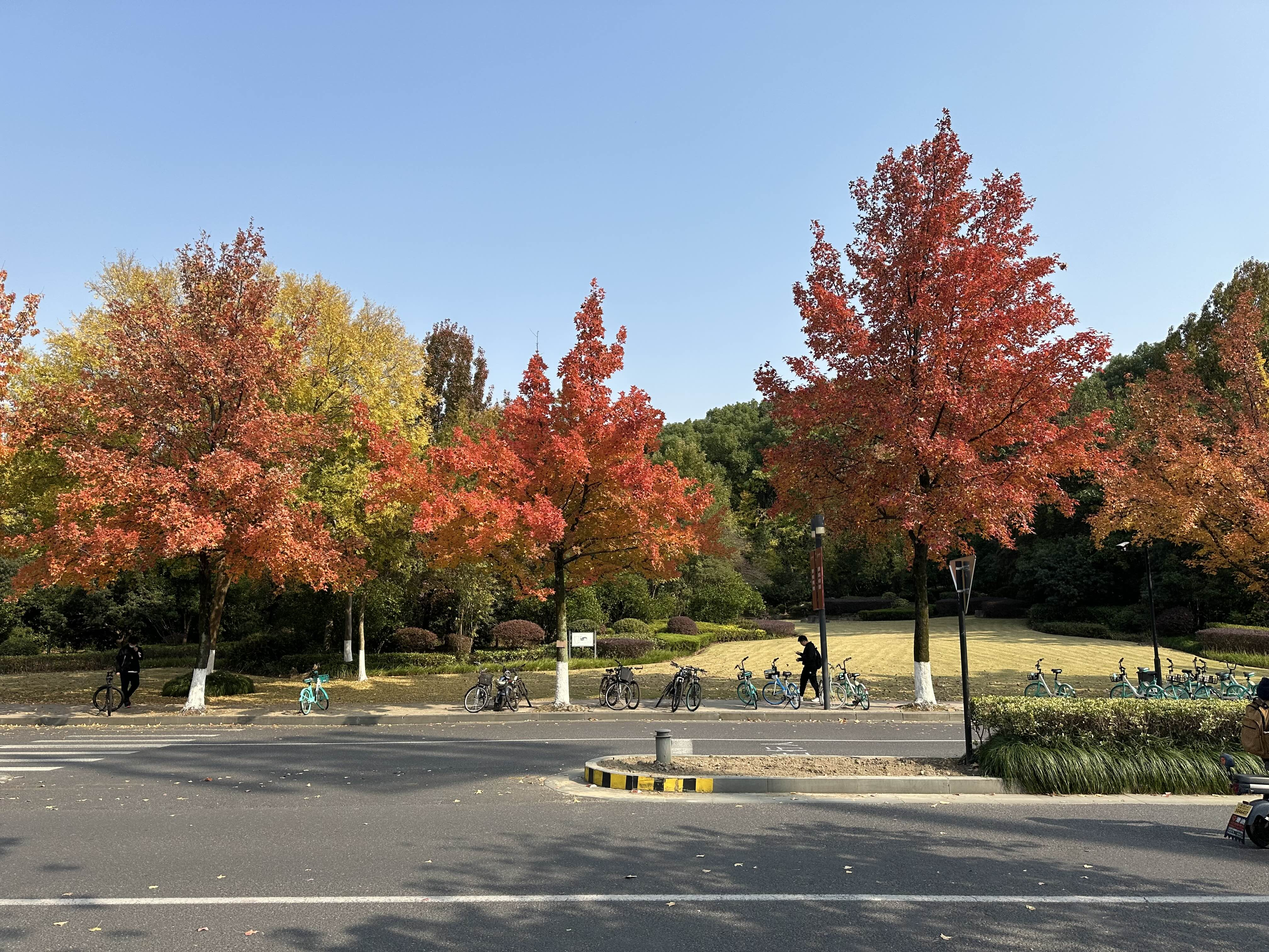
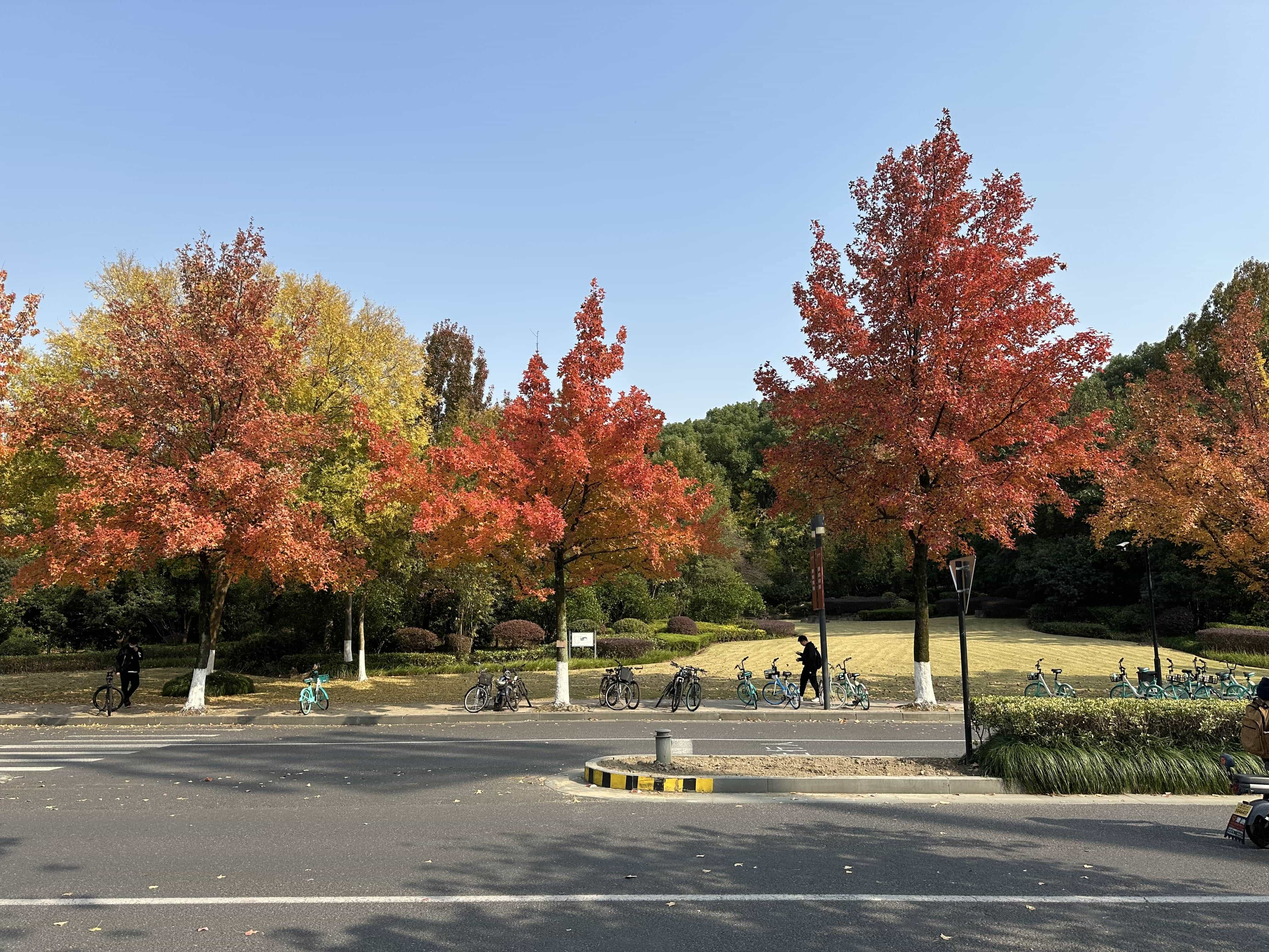
Compress images

diff --git a/index.html b/index.html
@@ -150,7 +150,7 @@
 			</main>
 			<footer>
 <hr><a class="soc" href="https://github.com/zhuyie" title="GitHub"><i data-feather="github"></i></a>|⚡
-	2023  © zhuyie |  <a href="https://github.com/athul/archie">Archie Theme</a> | Built with <a href="https://gohugo.io">Hugo</a>
+	2024  © zhuyie |  <a href="https://github.com/athul/archie">Archie Theme</a> | Built with <a href="https://gohugo.io">Hugo</a>
 </footer>
 
 

diff --git a/posts/index.html b/posts/index.html
@@ -59,7 +59,7 @@
 		</li></ul>
 <footer>
 <hr><a class="soc" href="https://github.com/zhuyie" title="GitHub"><i data-feather="github"></i></a>|⚡
-	2023  © zhuyie |  <a href="https://github.com/athul/archie">Archie Theme</a> | Built with <a href="https://gohugo.io">Hugo</a>
+	2024  © zhuyie |  <a href="https://github.com/athul/archie">Archie Theme</a> | Built with <a href="https://gohugo.io">Hugo</a>
 </footer>
 
 

diff --git a/posts/binary-to-text-encoding/index.html b/posts/binary-to-text-encoding/index.html
@@ -148,7 +148,7 @@
 </main>
 <footer>
 <hr><a class="soc" href="https://github.com/zhuyie" title="GitHub"><i data-feather="github"></i></a>|⚡
-	2023  © zhuyie |  <a href="https://github.com/athul/archie">Archie Theme</a> | Built with <a href="https://gohugo.io">Hugo</a>
+	2024  © zhuyie |  <a href="https://github.com/athul/archie">Archie Theme</a> | Built with <a href="https://gohugo.io">Hugo</a>
 </footer>
 
 

diff --git a/posts/ble-paring-on-dualboot-macos-windows/index.html b/posts/ble-paring-on-dualboot-macos-windows/index.html
@@ -219,7 +219,7 @@
 </main>
 <footer>
 <hr><a class="soc" href="https://github.com/zhuyie" title="GitHub"><i data-feather="github"></i></a>|⚡
-	2023  © zhuyie |  <a href="https://github.com/athul/archie">Archie Theme</a> | Built with <a href="https://gohugo.io">Hugo</a>
+	2024  © zhuyie |  <a href="https://github.com/athul/archie">Archie Theme</a> | Built with <a href="https://gohugo.io">Hugo</a>
 </footer>
 
 

diff --git a/posts/bsdiff-annotated/index.html b/posts/bsdiff-annotated/index.html
@@ -344,7 +344,7 @@
 </main>
 <footer>
 <hr><a class="soc" href="https://github.com/zhuyie" title="GitHub"><i data-feather="github"></i></a>|⚡
-	2023  © zhuyie |  <a href="https://github.com/athul/archie">Archie Theme</a> | Built with <a href="https://gohugo.io">Hugo</a>
+	2024  © zhuyie |  <a href="https://github.com/athul/archie">Archie Theme</a> | Built with <a href="https://gohugo.io">Hugo</a>
 </footer>
 
 

diff --git a/posts/cpp-generate-canonical-perf/index.html b/posts/cpp-generate-canonical-perf/index.html
@@ -188,7 +188,7 @@
 </main>
 <footer>
 <hr><a class="soc" href="https://github.com/zhuyie" title="GitHub"><i data-feather="github"></i></a>|⚡
-	2023  © zhuyie |  <a href="https://github.com/athul/archie">Archie Theme</a> | Built with <a href="https://gohugo.io">Hugo</a>
+	2024  © zhuyie |  <a href="https://github.com/athul/archie">Archie Theme</a> | Built with <a href="https://gohugo.io">Hugo</a>
 </footer>
 
 

diff --git a/posts/cpu-branch-prediction-demo/index.html b/posts/cpu-branch-prediction-demo/index.html
@@ -156,7 +156,7 @@
 </main>
 <footer>
 <hr><a class="soc" href="https://github.com/zhuyie" title="GitHub"><i data-feather="github"></i></a>|⚡
-	2023  © zhuyie |  <a href="https://github.com/athul/archie">Archie Theme</a> | Built with <a href="https://gohugo.io">Hugo</a>
+	2024  © zhuyie |  <a href="https://github.com/athul/archie">Archie Theme</a> | Built with <a href="https://gohugo.io">Hugo</a>
 </footer>
 
 

diff --git a/posts/cpu-cache-false-sharing/index.html b/posts/cpu-cache-false-sharing/index.html
@@ -274,7 +274,7 @@
 </main>
 <footer>
 <hr><a class="soc" href="https://github.com/zhuyie" title="GitHub"><i data-feather="github"></i></a>|⚡
-	2023  © zhuyie |  <a href="https://github.com/athul/archie">Archie Theme</a> | Built with <a href="https://gohugo.io">Hugo</a>
+	2024  © zhuyie |  <a href="https://github.com/athul/archie">Archie Theme</a> | Built with <a href="https://gohugo.io">Hugo</a>
 </footer>
 
 

diff --git a/posts/goodbye-2023/index.html b/posts/goodbye-2023/index.html
@@ -70,7 +70,7 @@
 </main>
 <footer>
 <hr><a class="soc" href="https://github.com/zhuyie" title="GitHub"><i data-feather="github"></i></a>|⚡
-	2023  © zhuyie |  <a href="https://github.com/athul/archie">Archie Theme</a> | Built with <a href="https://gohugo.io">Hugo</a>
+	2024  © zhuyie |  <a href="https://github.com/athul/archie">Archie Theme</a> | Built with <a href="https://gohugo.io">Hugo</a>
 </footer>
 
 

diff --git a/posts/happy-new-year-2023/index.html b/posts/happy-new-year-2023/index.html
@@ -71,7 +71,7 @@
 </main>
 <footer>
 <hr><a class="soc" href="https://github.com/zhuyie" title="GitHub"><i data-feather="github"></i></a>|⚡
-	2023  © zhuyie |  <a href="https://github.com/athul/archie">Archie Theme</a> | Built with <a href="https://gohugo.io">Hugo</a>
+	2024  © zhuyie |  <a href="https://github.com/athul/archie">Archie Theme</a> | Built with <a href="https://gohugo.io">Hugo</a>
 </footer>
 
 

diff --git a/posts/use-metal-in-command-line-app/index.html b/posts/use-metal-in-command-line-app/index.html
@@ -88,7 +88,7 @@
 </main>
 <footer>
 <hr><a class="soc" href="https://github.com/zhuyie" title="GitHub"><i data-feather="github"></i></a>|⚡
-	2023  © zhuyie |  <a href="https://github.com/athul/archie">Archie Theme</a> | Built with <a href="https://gohugo.io">Hugo</a>
+	2024  © zhuyie |  <a href="https://github.com/athul/archie">Archie Theme</a> | Built with <a href="https://gohugo.io">Hugo</a>
 </footer>
 
 

diff --git a/categories/index.html b/categories/index.html
@@ -50,7 +50,7 @@
 </div>
 <footer>
 <hr><a class="soc" href="https://github.com/zhuyie" title="GitHub"><i data-feather="github"></i></a>|⚡
-	2023  © zhuyie |  <a href="https://github.com/athul/archie">Archie Theme</a> | Built with <a href="https://gohugo.io">Hugo</a>
+	2024  © zhuyie |  <a href="https://github.com/athul/archie">Archie Theme</a> | Built with <a href="https://gohugo.io">Hugo</a>
 </footer>
 
 
